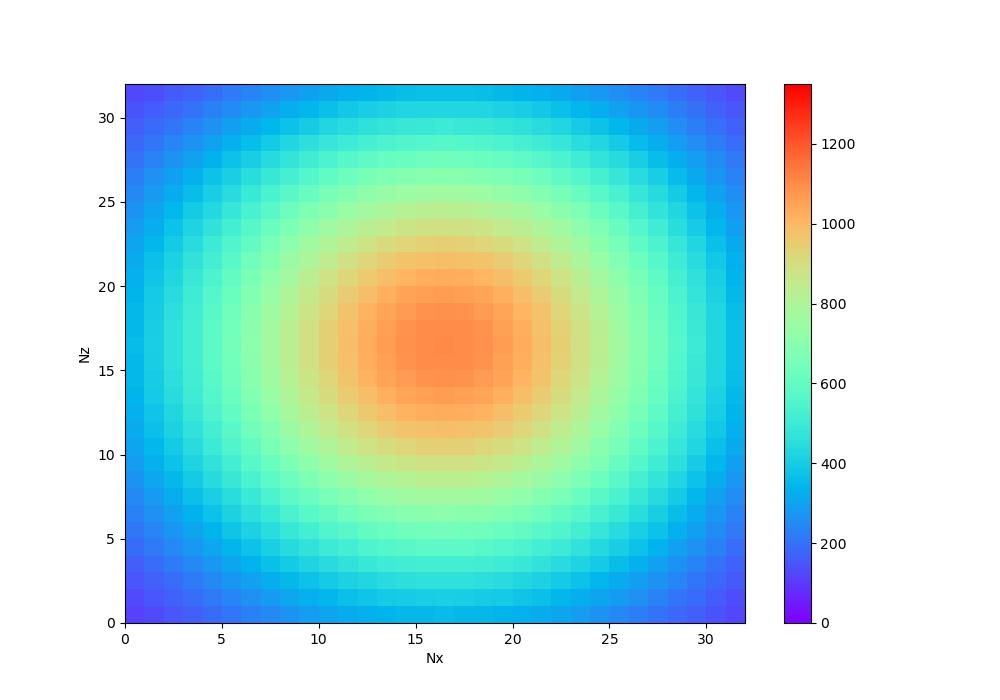
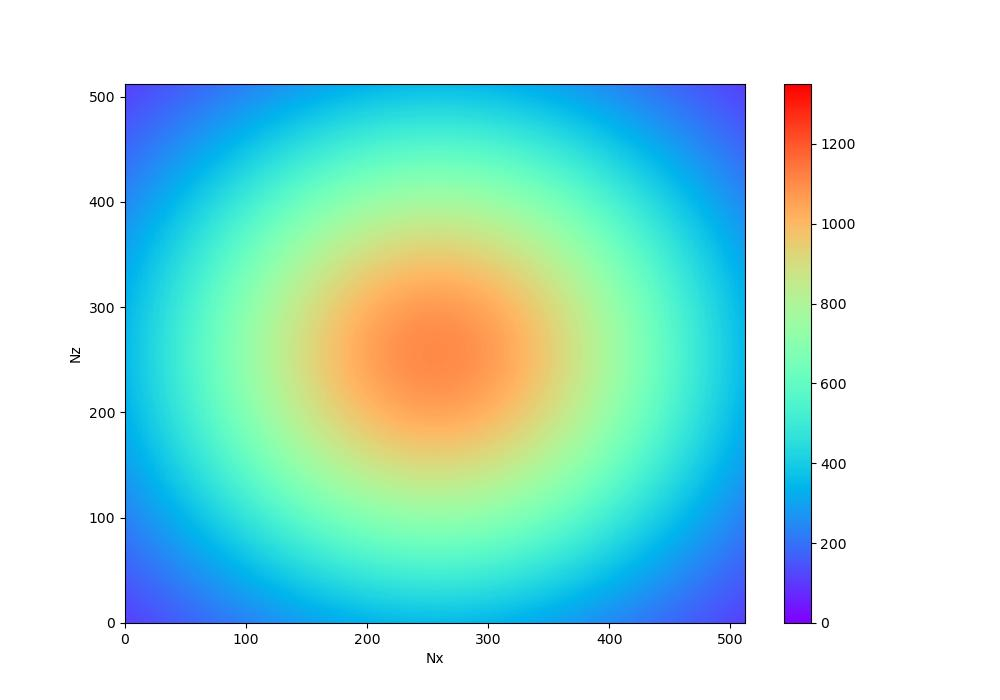
cartesian grid 3

diff --git a/src/solve.cpp b/src/solve.cpp
@@ -46,33 +46,45 @@ void apply_boundaries(std::vector<double>& T, double t, int Nx_ghost, int Ny_gho
 
     // Global top border (i = 0)
     if (coords[0] == 0) {
+ 
         for (int j = 0; j < Ny_ghost; ++j) {
             double x = p.xmin - p.dx; 
             double y = p.ymin + (coords[1] * Ny_local + (j - 1)) * p.dy;
+            
             T[0 * Ny_ghost + j] = T_ex(t, x, y);
         }
     }
+
     // Global bottom border (i = Nx_ghost - 1)
     if (coords[0] == dims[0] - 1) {
+        
         for (int j = 0; j < Ny_ghost; ++j) {
             double x = p.xmax + p.dx;
             double y = p.ymin + (coords[1] * Ny_local + (j - 1)) * p.dy;
+            
             T[(Nx_ghost - 1) * Ny_ghost + j] = T_ex(t, x, y);
         }
     }
+
     // Global left border (j = 0)
     if (coords[1] == 0) {
+        
         for (int i = 0; i < Nx_ghost; ++i) {
+            
             double x = p.xmin + (coords[0] * Nx_local + (i - 1)) * p.dx;
             double y = p.ymin - p.dy;
+            
             T[i * Ny_ghost + 0] = T_ex(t, x, y);
         }
     }
+
     // Global right border (j = Ny_ghost - 1)
     if (coords[1] == dims[1] - 1) {
+
         for (int i = 0; i < Nx_ghost; ++i) {
             double x = p.xmin + (coords[0] * Nx_local + (i - 1)) * p.dx;
             double y = p.ymax + p.dy;
+
             T[i * Ny_ghost + (Ny_ghost - 1)] = T_ex(t, x, y);
         }
     }
@@ -87,10 +99,13 @@ double error_T(const std::vector<double>& T, int Nx_ghost, int Ny_ghost, int coo
 
     for(int i = 1; i < Nx_ghost - 1; ++i) {
         double x = p.xmin + (coords[0] * Nx_local + (i - 1)) * p.dx;
+
         for(int j = 1; j < Ny_ghost - 1; ++j) {
             double y = p.ymin + (coords[1] * Ny_local + (j - 1)) * p.dy;
             double diff = std::abs(T[i * Ny_ghost + j] - T_ex(p.t_final, x, y));
-            if (diff > err_max_local) err_max_local = diff;
+
+            if (diff > err_max_local) 
+                err_max_local = diff;
         }
     }
     return err_max_local;
@@ -100,10 +115,12 @@ double max_T(const std::vector<double>& T, int Nx_ghost, int Ny_ghost) {
     double Tmax_local = 0;
 
     for(int i = 1; i < Nx_ghost - 1; ++i) {
+        
         for(int j = 1; j < Ny_ghost - 1; ++j) {
-            
             double val = std::abs(T[i * Ny_ghost + j]);
-            if(val > Tmax_local) Tmax_local = val;
+            
+            if(val > Tmax_local) 
+                Tmax_local = val;
         }
     }
     return Tmax_local;
@@ -189,6 +206,10 @@ double solve(int N, int rank, int nprocs, std::shared_ptr<double> err_max, std::
         file << "\n";
     }
     file.close();
+
+    std::ofstream processFile("Process_datas.txt");
+    processFile << dims[0] << " " << dims[1];
+    processFile.close();
 
     // Global Error Reduction
     double l_err = error_T(T, Nx_ghost, Ny_ghost, coords);

diff --git a/graph/plot_T.py b/graph/plot_T.py
@@ -1,8 +1,9 @@
 import numpy as np
 import matplotlib.pyplot as plt
 
-def reconstruct_2d(nprocs_x, nprocs_y):
+def reconstruct_2d():
     full_matrix = []
+    nprocs_x, nprocs_y = np.loadtxt("Process_datas.txt", dtype=int)
 
     for i in range(nprocs_x):
         row_blocks = []
@@ -17,7 +18,7 @@ def reconstruct_2d(nprocs_x, nprocs_y):
 
 # Plot
 fig, ax = plt.subplots(figsize=(10,7))
-T = reconstruct_2d(2, 2)
+T = reconstruct_2d()
 im = ax.pcolormesh(T, cmap='rainbow', vmin=0, vmax=1350)
 
 ax.set_xlabel("Nx")
